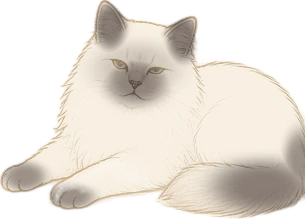
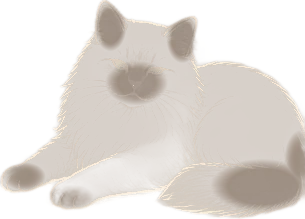
Fix Lizzy peek on 'segera diumumkan' card + line-art night cats
- Peek cat is a sibling above the card (z-index 3), jump pose with paws resting over the card's top edge, soft fade; room reserved so map/header don't cut it
- Night cats (points.py): cream line-art on dark, translucent warm fill, clear grey-taupe points; removed 'solid fur' densify step

diff --git a/src/styles/main.css b/src/styles/main.css
@@ -402,8 +402,12 @@ fieldset{border:0;display:grid;gap:10px}legend,.fld>span{font:600 11px var(--san
 @media (min-width:960px){.hero-visual.no-loc{padding:0;display:block}.hero-visual.no-loc .map-empty{height:100%;border:0;border-radius:0}}
 
 /* Lizzy peeking over the 'segera diumumkan' card */
-.soon-wrap{position:relative;z-index:2;width:calc(100% - 32px);max-width:440px;margin:64px auto 24px}
+.soon-wrap{position:relative;z-index:2;width:calc(100% - 32px);max-width:440px;margin:84px auto 24px}
 .soon-wrap .soon{width:100%;margin:0;position:relative;z-index:1}
-.soon-peek{position:absolute;right:22px;bottom:calc(100% - 14px);width:104px;height:84px;overflow:hidden;z-index:0;pointer-events:none}
+/* cat is a sibling of the card (not inside its backdrop-filter stacking context), drawn above it;
+   crop line sits exactly on the card's top edge so Lizzy looks tucked behind it */
+.soon-peek{position:absolute;right:18px;bottom:calc(100% - 16px);width:132px;height:75px;overflow:hidden;z-index:3;pointer-events:none;
+  -webkit-mask:linear-gradient(#000 calc(100% - 9px),transparent);mask:linear-gradient(#000 calc(100% - 9px),transparent);
+  filter:drop-shadow(0 3px 4px rgba(0,0,0,.18))}
 .soon-peek img{display:block;width:100%;height:auto}
-@media (min-width:960px){.soon-peek{width:120px;height:96px;right:30px}}
+@media (min-width:960px){.soon-peek{width:156px;height:88px;right:34px;bottom:calc(100% - 19px)}.soon-wrap{margin-top:100px}}

diff --git a/scripts/points.py b/scripts/points.py
@@ -27,16 +27,17 @@ def shade(p):
   out[eye]=out[eye]*.8+np.array([150,190,225.])*.2
   day=np.dstack([np.clip(out,0,255),im[...,3]]).astype('uint8')
   Image.fromarray(day,'RGBA').save(f'public/img/cat-{p}.webp','WEBP',quality=90,method=6,exact=True)
-  # night: same cream recolour as before (lines -> warm tan, fur -> ivory), then the point shading on top
-  L0=rgb.mean(2,keepdims=True);t=np.clip((L0-60)/170,0,1)
-  n=np.array([196,164,120.])*(1-t)+np.array([248,240,226.])*t
-  n=n*.85+(rgb*(t>0.3)+n*(t<=0.3))*.15
-  NT=np.array([128,116,108.])*(0.55+0.45*t)
-  mn=np.clip(m[...,None]*1.1,0,.92)
-  n=n*(1-mn)+NT*mn
-  n[eye]=out[eye]*.7+np.array([170,205,235.])*.3
-  # night: densify faded fur so the body doesn't read as see-through/'broken' on dark bg (lines + points kept)
-  a=im[...,3];light=np.clip((L0[...,0]-120)/80,0,1);an=np.where(a<16,a,np.clip(a*(1+.9*light),0,255))
-  Image.fromarray(np.dstack([np.clip(n,0,255),an]).astype('uint8'),'RGBA').save(f'public/img/cat-{p}-n.webp','WEBP',quality=90,method=6,exact=True)
+  # night = line-art on dark: strokes -> cream, fur fill -> dark warm & translucent, colour points -> grey-taupe
+  L0=rgb.mean(2);t=np.clip((L0-150)/85,0,1)**.8        # 0 = line/fur stroke, 1 = flat fill
+  line=np.array([246,236,218.]);fur=np.array([150,130,112.])
+  n=line*(1-t[...,None])+fur*t[...,None]
+  a=im[...,3]
+  an=a*(1-.62*t)                                        # lines stay solid, fill goes see-through
+  NT=np.array([158,144,134.])
+  mn=np.clip(m*1.15,0,.9)
+  n=n*(1-mn[...,None])+NT*mn[...,None]                  # points clearly grey-taupe
+  an=np.maximum(an,a*np.clip(mn*1.25,0,1))
+  n[eye]=np.array([170,205,235.]);an[eye]=a[eye]
+  Image.fromarray(np.dstack([np.clip(n,0,255),np.clip(an,0,255)]).astype('uint8'),'RGBA').save(f'public/img/cat-{p}-n.webp','WEBP',quality=90,method=6,exact=True)
 for p in R: shade(p)
 print('ok')
